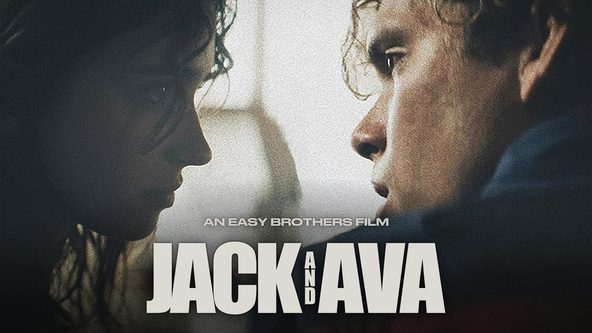
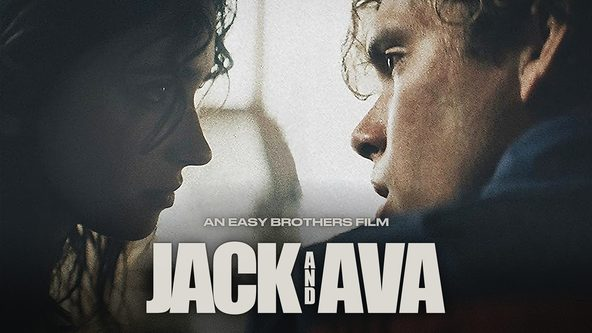
Reduce grain and fix aliasing in the compressed band
Denoises the source with edge-preserving non-local means, cutting grain
52% on the master while keeping face detail. Also replaces point
sampling in the squeeze with area-averaging, which was aliasing grain
into blotches wherever the band compressed several times over.

diff --git a/index.html b/index.html
@@ -432,8 +432,8 @@
       <div class="cell"><dt>Landscape</dt><dd>16:9 &#183; 1920&#215;1080, 2560&#215;1440</dd></div>
       <div class="cell"><dt>Portrait, Tubi</dt><dd>408:583 &#183; 1312&#215;1875</dd></div>
       <div class="cell"><dt>Portrait, standard</dt><dd>2:3 &#183; 1250&#215;1875, 1000&#215;1500</dd></div>
-      <div class="cell"><dt>Format</dt><dd>JPEG, sRGB embedded</dd></div>
-      <div class="cell"><dt>Imagery</dt><dd>Graded frame, no added elements</dd></div>
+      <div class="cell"><dt>Format</dt><dd>JPEG sRGB, layered PSD</dd></div>
+      <div class="cell"><dt>Imagery</dt><dd>Graded frame, grain reduced 52%</dd></div>
       <div class="cell"><dt>Logotype</dt><dd>From the release poster</dd></div>
     </div>
   </section>
